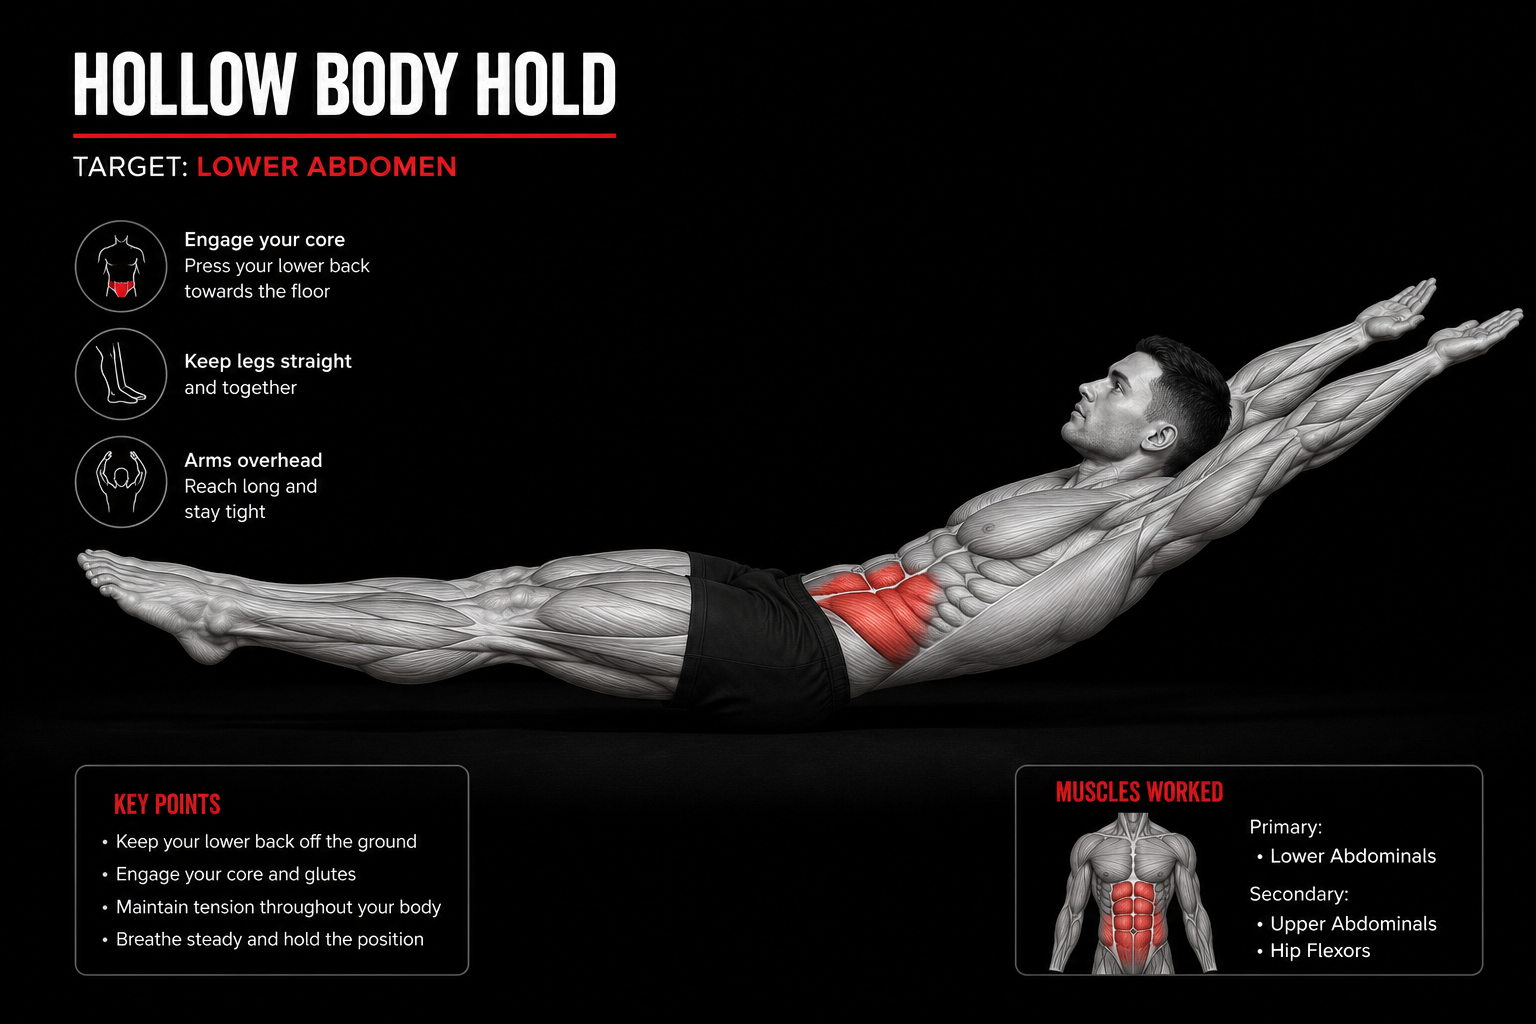
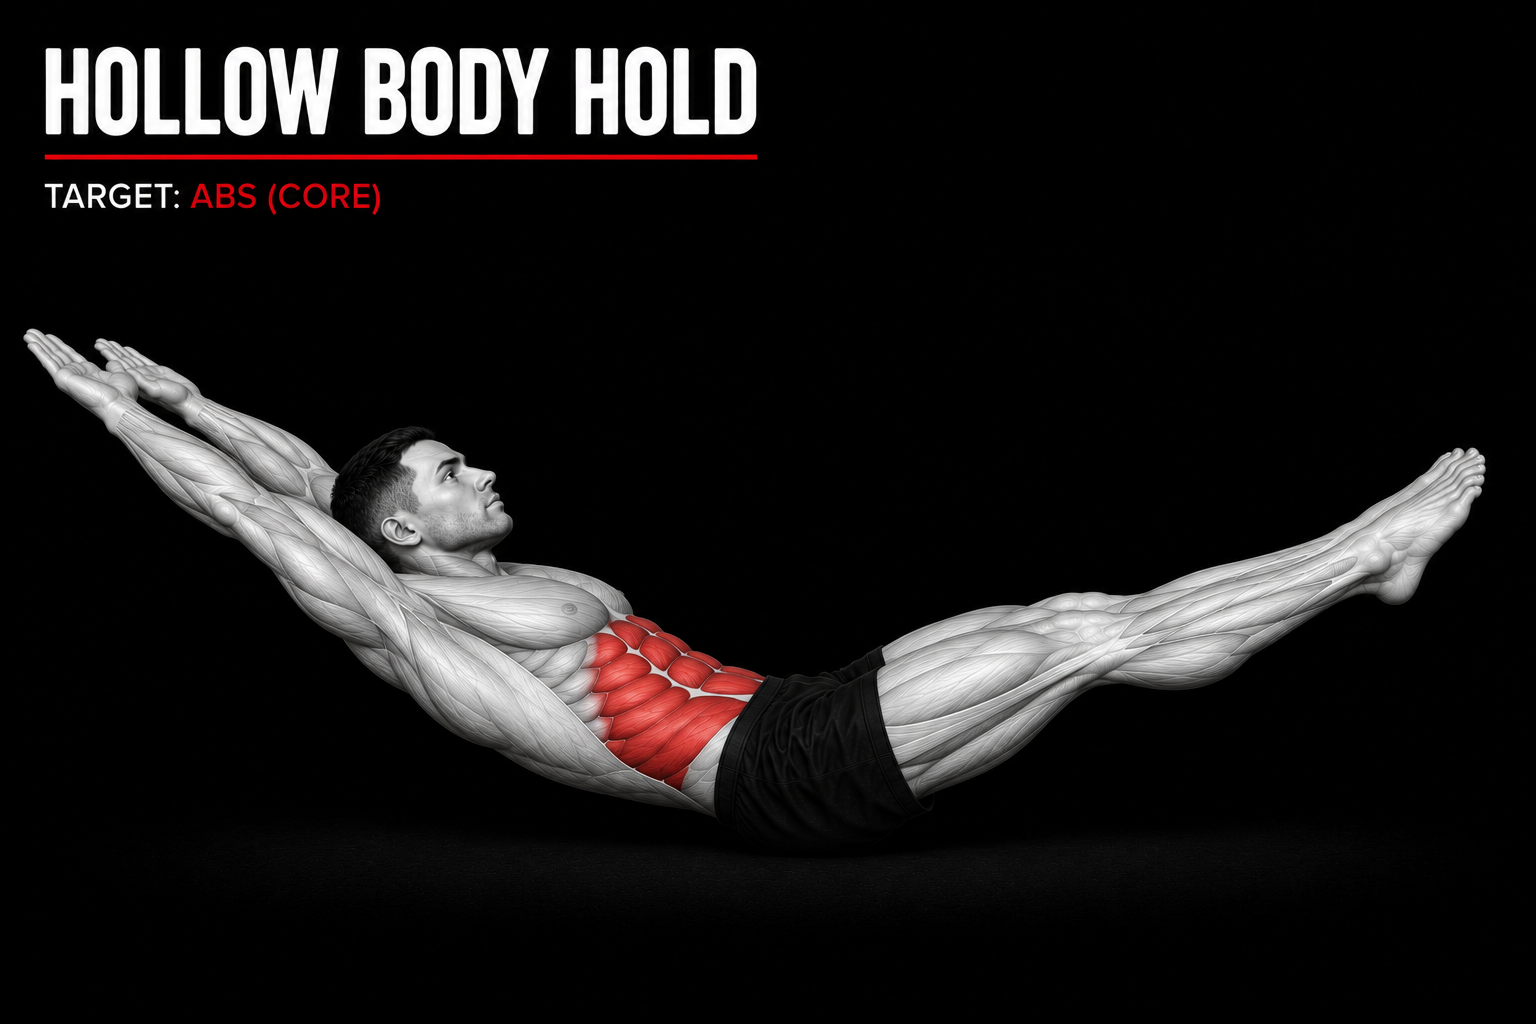
progress in f3.4

Changed region(s): [[0.0, 0.0312, 1.0, 0.8125], [0.6562, 0.75, 0.9375, 0.9688], [0.0625, 0.75, 0.3125, 0.9375]]

diff --git a/src/F3.4.css b/src/F3.4.css
@@ -1,89 +1,111 @@
 body {
-  background-color: black;
-  font-family: Arial, Helvetica, sans-serif;
-  margin: 0;
+    background-color: black;
 }
-
-.container {
-  display: flex;
-  flex-direction: row-reverse; /* flips sides: image right, text left */
-  height: 100vh;
+header {
+    text-align: center;
+    background-color: silver;
 }
-
-.left {
-  flex: 1;
-  color: white;
-  padding: 20px;
-}
-
-.right {
-  flex: 1;
-  display: flex;
-  justify-content: center;
-  align-items: center;
-}
-
-.right img {
-  width: 90%;
-  height: auto;
-}
-
-h1, h2, h3 {
-  margin: 10px 0;
-}
-
-.workout1, .inst {
-  color: rgb(220, 102, 220);
-}
-
-button {
-  background-color: rgb(220, 102, 220);
-  color: black;
-  font-size: 20px;
-  margin: 10px;
-  padding: 8px 16px;
-  border: none;
-  cursor: pointer;
-}
-
-button:hover {
-  opacity: 0.8;
-}
-
-ul {
-  font-size: 18px;
-}
-
-button:hover{
-    cursor: pointer;
-}
-#resetbtn,
-#resetbtn2,
-#resetbtn3,
-#resetbtn4,
-#resetbtn5,
-#resetbtn6{
-    margin-left: 10px;
-}
-.inst{
-    color:  rgb(220, 102, 220);
+.inst {
+    color: #8f3027;
     font-family: Arial, Helvetica, sans-serif;
     font-size: 40px;
 }
-
-ul{
-    color: white;
+ul {
+    color: silver;
     font-size: 30px;
 }
-span{
+span {
     font-size: 20px;
 }
-.resetbtn2{
-    padding-left: 20px;
+h1 {
+    text-align: center;
+    margin-top: 80px;
+    color: #8f3027;
 }
-.workout3{
-    margin-right: 1200px;
+h2 {
+    color: silver;
+    margin-left: 50px;
 }
-.reset3{
-    margin-left: 20px;
+.workout1 {
+    color: #8f3027;
+    font-family: Arial, Helvetica, sans-serif;
+    margin: 0 0 0 50px;
+    padding: 0;
+    text-align: left;
+}
+.workout-image {
+    float: right;
+    width: min(45%, 650px);
+    height: auto;
+    margin: -80px 50px 30px 30px;
+}
+h3 {
+    color: silver;
+    margin-left: 40px;
+    display: grid;
+    grid-template-columns: 100px 20px auto;
+}
+
+.stopwatch-frame {
+  display: flex;
+  flex-direction: column;
+  align-items: center;
+  background-color: #000;
+  border: 3px solid #ff8c00;
+  border-radius: 20px;
+  padding: 20px;
+  width: 300px;
+  box-shadow: 0 0 20px rgba(255, 140, 0, 0.3);
+}
+
+.dial {
+  position: relative;
+  width: 220px;
+  height: 220px;
+  border-radius: 50%;
+  background: radial-gradient(circle, #111 60%, #000);
+}
+
+.center-display {
+  position: absolute;
+  top: 50%;
+  left: 50%;
+  transform: translate(-50%, -50%);
+  color: white;
+  font-family: 'Orbitron', sans-serif;
+  font-size: 40px;
+}
+
+.controls {
+  display: flex;
+  gap: 15px;
+  margin-top: 20px;
+}
+
+#startBtn, #resetBtn {
+  width: 100px;
+  padding: 10px;
+  font-size: 18px;
+  border: none;
+  border-radius: 10px;
+  cursor: pointer;
+  transition: 0.3s;
+}
+
+#startBtn {
+  background-color: #00b86b;
+  color: black;
+}
+
+#resetBtn {
+  background-color: #555;
+  color: white;
+}
+
+#startBtn:hover {
+  background-color: #00ff88;
+}
+
+#resetBtn:hover {
+  background-color: #777;
 }

diff --git a/src/F3.4.html b/src/F3.4.html
@@ -10,30 +10,42 @@
 
 <body>
     <header>
-        <h1>Calisthenics</h1>
+        <h1>Calisthenics Workout</h1>
     </header>
-    <div class="container">
-        <div class="right">
-            <img src="../assets/hollow hold.jpg" alt="Hollow body hold">
+    <br><br>
+
+    <h2>Exercises  1/10</h2>
+    <h1 class="workout1">Hollow Body Hold</h1> <br><br>
+    <img class="workout-image" src="../assets/hollow hold.jpg" alt="Hollow Body Hold Exercise">>
+    <h3><span>sets</span><span>:</span><span>3 sets</span></h3>
+    <h3><span>hold time</span><span>:</span><span>20-30 seconds</span></h3>
+    <h3><span>rest time</span><span>:</span><span>40sec</span></h3>
+    <h3><span>Est time</span><span>:</span><span>5-10min</span></h3><br><br>
+    <div class="stopwatch-frame">
+      <div class="dial">
+        <div class="center-display">
+          <span id="seconds">00</span> :
+          <span id="miniSeconds">00</span>
         </div>
-        <div class="left">
-            <h2>Exercises  1/10</h2>
-            <h1 class="workout1">Hollow Body Hold</h1><br><br>
-            <h3><span>sets</span><span>:</span><span>3 sets</span></h3>
-            <h3><span>reps</span><span>:</span><span>10-12 reps</span></h3>
-            <h3><span>rest time</span><span>:</span><span>40sec</span></h3>
-            <h3><span>Est time</span><span>:</span><span>5-10min</span></h3><br><br>
-            <button id="btn" onclick="stratstop()">Start</button>
-            <button id="resetbtn" onclick="reset()">Reset</button>
-            <br><br>
-            <h2 class="inst">Instruction</h2>
-                <ul>
-                    <li>Lie flat on your back on a mat with your legs straight and your arms beside you.</li>
-                    <li>Keep your lower back pressed gently against the floor and tighten your core.</li>
-                    <li>Pause briefly at the top, then slowly lower your legs without letting them drop.</li>
-                    <li>Repeat with controlled movement and avoid swinging your legs or lifting your lower back off the floor.</li>
-                
-                </ul>
-            </div>
-            <br>
-            <hr>
+      </div>
+      <div class="controls">
+        <button id="startBtn">Start</button>
+        <button id="resetBtn">Reset</button>
+      </div>
+    </div>
+    <br><br>
+    <h2 class="inst">Instruction</h2>
+        <ul>
+            <li>Lie flat on your back. Press your lower back firmly into the floor so there’s no gap underneath.</li>
+            <li>Lift your legs, head, and shoulder blades slightly off the ground.</li>
+            <li>Extend your arms overhead. </li>
+            <li>Hold this banana-like shape. </li>
+        </ul>
+    </div>
+    <br><hr>
+    <br><br>
+
+
+        <script src="index.js"></script>
+</body>
+</html>
